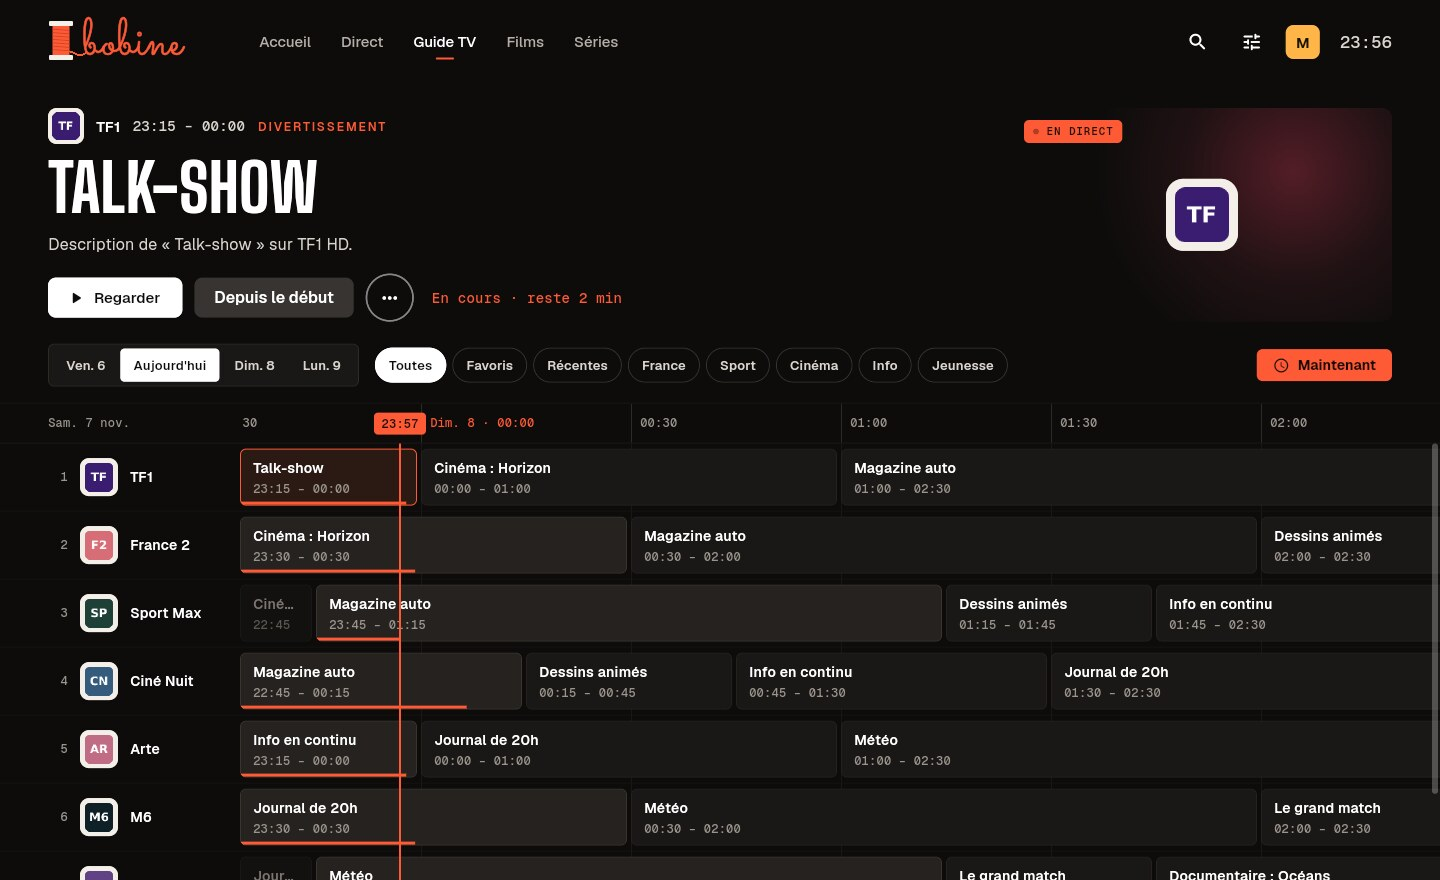
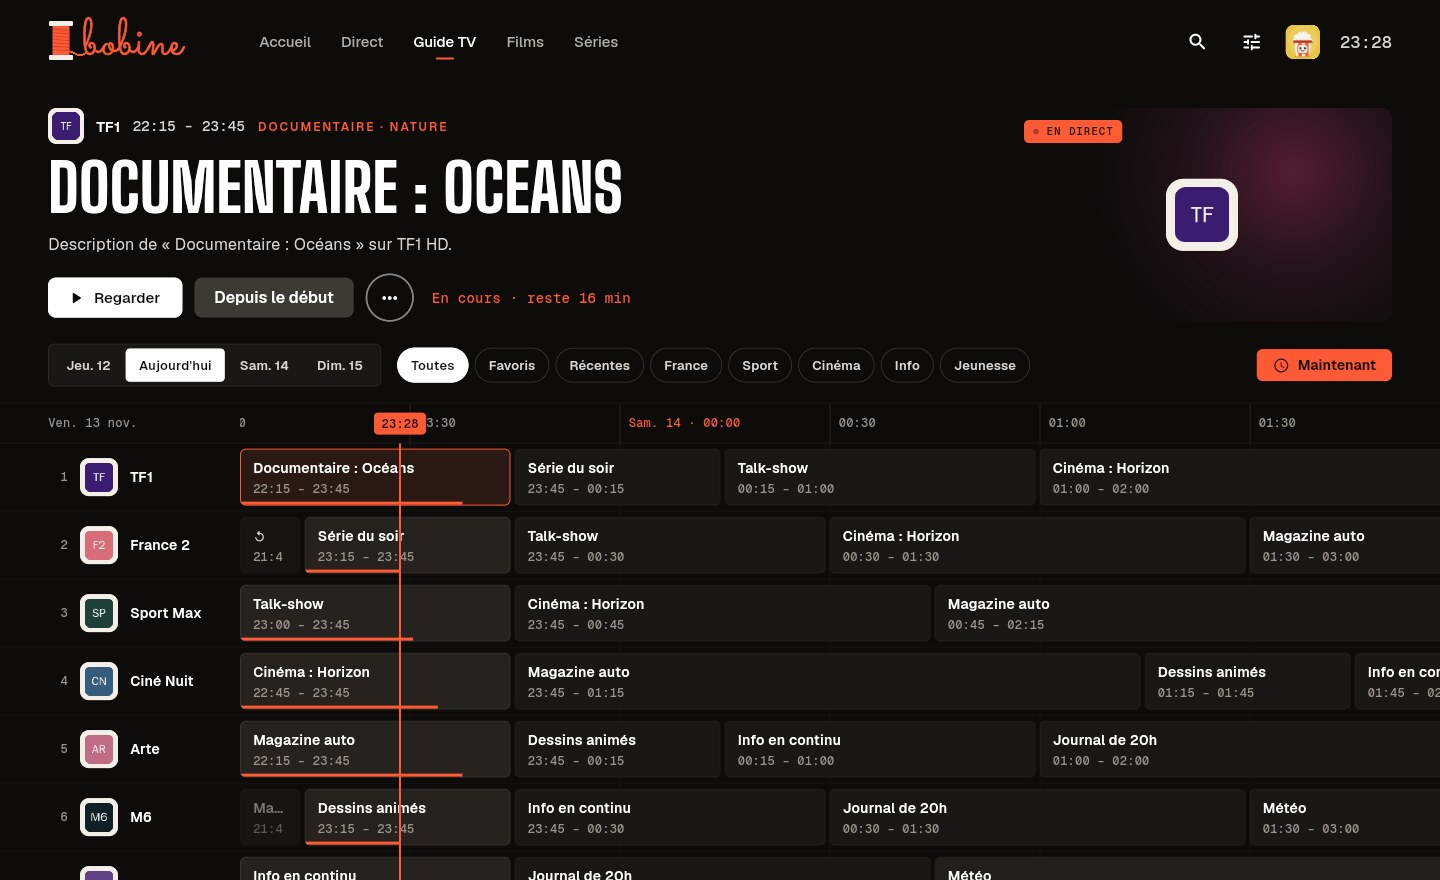
Documentation 1.7.1 : README, captures et signature des mises à jour
- README : « Reprendre » avec l'épisode suivant, recherche (films et
  séries d'abord, 5 programmes puis « Tout voir »), miniature au survol,
  certificats vérifiés par source, section « Nouveautés 1.7 »,
  installation depuis la dernière Release (et avertissement
  SmartScreen), publication signée, dossier des données sous Linux,
  arborescence à jour (features/, lecteur), faux TMDB pour les captures,
  feuille de route.
- Captures refaites en 1.7.1 avec le faux serveur (1440 × 880) ; cinq
  nouvelles : Reprendre, recherche, fiche d'une série, multi-écran,
  thème clair. L'écran de premier lancement illustre « Utilisation ».
- docs/signature-mises-a-jour.md : la signature est en place depuis la
  1.7.0 (clé publique intégrée, .sig publié avec chaque release).
- Deux commentaires parlaient encore de « Continuer à regarder ».

Claude-Session: https://claude.ai/code/session_01HwKVrFk4WPj4UP2jAgbDDs

diff --git a/lib/data/repository.dart b/lib/data/repository.dart
@@ -606,7 +606,7 @@ class Repository {
     );
   }
 
-  /// Items to show in "Continuer à regarder": unfinished movies, plus for each
+  /// Items to show in "Reprendre": unfinished movies, plus for each
   /// series the episode in progress or the one after the last seen to the
   /// end ([ProgressEntry.upNext]). Films and series of a locked category
   /// stay out while the parental code is required. [kind] keeps films

diff --git a/lib/ui/launch.dart b/lib/ui/launch.dart
@@ -114,7 +114,7 @@ class Launch {
     await PlayerScreen.open(context, PlayerSession(item: recordingItem(r)));
   }
 
-  /// Resumes an entry of "Continuer à regarder".
+  /// Resumes an entry of "Reprendre" (an episode up next starts from its beginning).
   static Future<void> resume(BuildContext context, ProgressEntry p) async {
     final s = AppScope.of(context);
     if (p.kind == ContentKind.movie) {

diff --git a/README.md b/README.md
@@ -10,14 +10,20 @@ L'objectif : un lecteur **très optimisé**, qui lit à peu près tous les flux 
 | Direct | Guide TV |
 |---|---|
 | ![Direct](docs/screenshots/tv-direct.jpg) | ![Guide TV](docs/screenshots/guide-tv.jpg) |
+| **Reprendre** (épisode suivant d'une série) | **Recherche** (films et séries d'abord) |
+| ![Reprendre](docs/screenshots/reprendre.jpg) | ![Recherche](docs/screenshots/recherche.jpg) |
 | **Films · Parcourir** | **Tout le catalogue** |
 | ![Films](docs/screenshots/films.jpg) | ![Tout le catalogue](docs/screenshots/catalogue.jpg) |
-| **Lecteur en direct** | **Film en pause** (résumé et distribution) |
-| ![Lecteur en direct](docs/screenshots/lecteur-direct.jpg) | ![Film en pause](docs/screenshots/lecteur-film.jpg) |
-| **Séries** | **Paramètres** |
-| ![Séries](docs/screenshots/series.jpg) | ![Paramètres](docs/screenshots/reglages.jpg) |
+| **Séries** | **Fiche d'une série** (épisodes vus) |
+| ![Séries](docs/screenshots/series.jpg) | ![Fiche d'une série](docs/screenshots/fiche-serie.jpg) |
+| **Fiche d'un film** | **Film en pause** (résumé et distribution) |
+| ![Fiche d'un film](docs/screenshots/fiche-film.jpg) | ![Film en pause](docs/screenshots/lecteur-film.jpg) |
+| **Lecteur en direct** | **Multi-écran** (2 à 4 chaînes) |
+| ![Lecteur en direct](docs/screenshots/lecteur-direct.jpg) | ![Multi-écran](docs/screenshots/multi-ecran.jpg) |
+| **Thème clair** | **Paramètres** |
+| ![Thème clair](docs/screenshots/accueil-clair.jpg) | ![Paramètres](docs/screenshots/reglages.jpg) |
 
-*(Captures réalisées avec le faux serveur de test fourni dans `tool/`, d'où les mires de couleur.)*
+*(Captures de la version 1.7.1, réalisées avec le faux serveur de test fourni dans `tool/` : d'où les mires de couleur et les affiches en dégradé.)*
 
 ---
 
@@ -29,6 +35,7 @@ L'objectif : un lecteur **très optimisé**, qui lit à peu près tous les flux 
 - Plusieurs sources, avec bascule rapide depuis le menu du profil.
 - Bouton « Tester » (Xtream : statut du compte, date d'expiration, nombre de connexions).
 - User-Agent personnalisable avec des préréglages (VLC, Kodi, IPTV Smarters…) pour les fournisseurs qui l'exigent.
+- Certificats https des fournisseurs **vérifiés** ; pour un serveur au certificat expiré ou auto-signé, l'option « Accepter un certificat invalide » se coche source par source (*Options avancées*).
 
 **TV en direct**
 - Navigation par une barre en haut : Accueil, Direct, Guide TV, Films, Séries, plus recherche (Ctrl + K ou /), paramètres, profil et heure.
@@ -45,15 +52,27 @@ L'objectif : un lecteur **très optimisé**, qui lit à peu près tous les flux 
 - « Parcourir » : grande image à la une qui défile, rangées (reprendre, ajouts, Top 10, favoris, catégories, mieux notés) ; un clic lance la lecture, l'affiche survolée propose lecture, favori et fiche.
 - « Tout le catalogue » : affiches, catégories (menu en colonnes ou pastilles), tri (ajouts récents, A–Z, note, année), filtre ; catégorie verrouillée déverrouillable sur place avec le code parental.
 - Fiches détaillées (synopsis, casting, durée, fond) récupérées depuis Xtream.
-- **Reprise de lecture** automatique, « Continuer à regarder » sur l'accueil.
+- **Reprendre**, sur l'accueil et dans les onglets Films et Séries : les films en cours et, pour chaque série, l'épisode en cours ou **l'épisode suivant** dès que le précédent a été vu jusqu'au bout. Quelques secondes d'un épisode (le suivant lancé tout seul puis fermé) ne comptent pas. Clic droit ou croix pour retirer une carte, avec « Annuler ».
 - Saisons et épisodes, épisodes vus, **épisode suivant automatique** avec compte à rebours.
+- **Recherche** dans l'en-tête (Ctrl + K ou /) : films et séries d'abord, puis chaînes et programmes du guide (les 5 premiers, « Tout voir » pour la suite). Un film ou une série ouvre sa fiche.
 
 **Lecteur**
 - En direct : programme en cours en grand, « Ensuite », panneau **Chaînes** pour zapper, **Mini-guide** des quatre prochains programmes, choix de la **qualité** de la chaîne, badge « Différé » et « Revenir au direct ».
-- Films et séries : barre de lecture, **écran de pause** avec résumé et distribution (TMDB), panneau **Épisodes**, carte « Épisode suivant ».
+- Films et séries : barre de lecture avec **miniature de l'instant survolé**, **écran de pause** avec résumé et distribution (TMDB), panneau **Épisodes**, carte « Épisode suivant ».
 - Panneau **Audio et sous-titres** : pistes (langue préférée, `fr` par défaut), taille des sous-titres, vitesse, format d'image (16:9, 4:3, 21:9, remplir, étirer).
 - Statistiques en direct (touche I) : codec, résolution, décodage matériel ou logiciel, cache, débit réseau, images perdues.
 - Désentrelacement automatique pour les chaînes 1080i / 576i.
+
+**Nouveautés 1.7**
+- **Reprendre l'épisode suivant** (1.7.1) : une série dont le dernier épisode regardé a été vu en entier propose le suivant, depuis le début, au lieu de disparaître de « Reprendre ». Après une actualisation Xtream, les épisodes sont redemandés au serveur en arrière-plan pour le trouver. Les onglets Films et Séries ont chacun leur « Reprendre ».
+- **Recherche** (1.7.1) : films et séries en premier, puis chaînes, puis les 5 premiers programmes TV avec « Tout voir ».
+- **Miniature au survol** de la barre de lecture (*Paramètres → Lecture*).
+- **Avatars de profil** (une des 6 images ou une photo) et jusqu'à 10 profils.
+- **Mises à jour vérifiées** : avant de l'installer, Bobine contrôle l'empreinte SHA-256 et la signature Ed25519 de l'installateur téléchargé (voir [docs/signature-mises-a-jour.md](docs/signature-mises-a-jour.md)).
+- **Certificats https vérifiés** pour les sources, avec « Accepter un certificat invalide » par source.
+- **Contrôle parental renforcé** : dans un profil enfant, les pages Compte, Sources, Contrôle parental, Sauvegarde, Enregistrements et Fiches TMDB demandent le code ; les essais sont limités.
+- **Une seule fenêtre** : relancer Bobine ramène celle qui est déjà ouverte.
+- Près d'une centaine de corrections de sécurité et de robustesse (import, synchro, cast, lecteur, enregistrements, journal).
 
 **Nouveautés 1.6 : caster sur la télé**
 - **Caster** ce que tu regardes sur une télé du réseau : bouton *Caster* en haut du lecteur, ou touche **T**. Compatible **Chromecast, Google TV, Android TV** et télés **DLNA** (Samsung, LG, Sony, Philips, Panasonic, Kodi, box…), trouvées toutes seules sur le réseau.
@@ -138,13 +157,15 @@ Autres optimisations :
 
 ### Option rapide : télécharger l'application déjà compilée
 
-Chaque envoi de code est compilé automatiquement sur un Windows de GitHub (tests compris) :
+1. Ouvre la [dernière Release](https://github.com/Weder77/Bobine/releases/latest) et télécharge **`Bobine-Setup-x.y.z.exe`** (installateur, sans droits administrateur) ou **`Bobine-windows-x64.zip`** (version portable à dézipper).
+2. Lance l'installateur, ou dézippe l'archive et lance **`bobine.exe`**.
+3. Les versions suivantes sont proposées dans l'application (*Paramètres → À propos*) et s'installent en un clic.
 
-1. Sur GitHub, ouvre l'onglet **Actions**, puis la dernière exécution **« Build »** réussie (coche verte).
-2. En bas de la page, télécharge l'artefact **`Bobine-Setup`** (installateur, sans droits administrateur) ou **`Bobine-windows-x64`** (version portable à dézipper). Il faut être connecté à GitHub.
-3. Lance **`Bobine-Setup-x.y.z.exe`**, ou dézippe l'archive et lance **`bobine.exe`**.
+> L'installateur n'est pas signé par un certificat Windows : SmartScreen peut afficher « Windows a protégé votre ordinateur ». Clique sur *Informations complémentaires*, puis *Exécuter quand même*.
 
-Pour publier une version, mets à jour `version:` dans `pubspec.yaml` et `kAppVersion` dans `lib/core/version.dart` (un test vérifie qu'ils sont identiques), puis fusionne dans `main` : si cette version n'existe pas encore, le CI crée le tag (`v1.1.0`) et publie l'installateur et l'archive dans les **Releases**. Pousser soi-même un tag `v*` fonctionne aussi. Les applications installées proposent ensuite la mise à jour (*Paramètres → À propos*).
+Chaque envoi de code est aussi compilé sur un Windows de GitHub (tests compris) : pour essayer une version pas encore publiée, ouvre l'onglet **Actions**, la dernière exécution **« Build »** réussie, et télécharge l'artefact **`Bobine-Setup`** ou **`Bobine-windows-x64`** (connexion à GitHub nécessaire).
+
+Pour publier une version, mets à jour `version:` dans `pubspec.yaml` et `kAppVersion` dans `lib/core/version.dart` (un test vérifie qu'ils sont identiques), puis fusionne dans `main` : si cette version n'existe pas encore, le CI crée le tag (`v1.7.1` par exemple), signe l'installateur et publie l'installateur, sa signature (`.sig`) et l'archive dans les **Releases**. Pousser soi-même un tag `v*` fonctionne aussi, s'il correspond à la version de `pubspec.yaml`. La clé de signature est décrite dans [docs/signature-mises-a-jour.md](docs/signature-mises-a-jour.md).
 
 > La vérification des mises à jour interroge l'API publique de GitHub : le dépôt (ou au moins ses Releases) doit être public.
 
@@ -197,6 +218,8 @@ L'application se trouve dans `build\windows\x64\runner\Release\`. Copie **tout l
 2. Les chaînes, films et séries sont importés en arrière-plan, suivis du guide TV. La progression s'affiche en bas de la fenêtre.
 3. Les sources sont actualisées automatiquement (contenu toutes les 24 h, guide toutes les 12 h, réglable).
 
+![Premier lancement](docs/screenshots/bienvenue.jpg)
+
 ### Raccourcis du lecteur
 
 | Touche | Action |
@@ -228,6 +251,7 @@ Hors du lecteur, les **flèches** déplacent le focus (cartes, menus, boutons), 
 ### En cas de problème
 
 - **Une chaîne ne se lance pas** : dans *Paramètres → Sources → Modifier → Options avancées*, essaie le format **HLS** au lieu de MPEG-TS, ou un **User-Agent** (VLC).
+- **Certificat refusé** sur une source https : si le serveur du fournisseur a un certificat expiré ou auto-signé, coche *Paramètres → Sources → Modifier → Options avancées → Accepter un certificat invalide*.
 - **Image corrompue ou verte** : passe le **décodage vidéo** sur « Logiciel » (*Paramètres → Lecture*).
 - **Effet de peigne** sur certaines chaînes : désentrelacement sur « Toujours ».
 - **Petit SSD ou peu de RAM** : réduis la taille du cache (*Paramètres → Cache*).
@@ -242,7 +266,7 @@ Hors du lecteur, les **flèches** déplacent le focus (cartes, menus, boutons), 
 ## Données et vie privée
 
 Tout est stocké **localement** dans une base SQLite (`bobine.db`) : sources, profils, favoris, progression, rappels et réglages. Un journal (`bobine.log`, identifiants masqués) se trouve à côté.
-Sous Windows elle se trouve dans `%APPDATA%\com.bobine\Bobine\`. Aucune donnée n'est envoyée ailleurs que vers ton fournisseur IPTV, sauf ce que tu actives : les titres des films et séries ouverts vers TMDB si tu as saisi une clé, la vérification des mises à jour vers GitHub (désactivable) et, si tu crées un compte, la synchronisation.
+Sous Windows elle se trouve dans `%APPDATA%\com.bobine\Bobine\`, sous Linux dans `~/.local/share/com.bobine.bobine/`. Aucune donnée n'est envoyée ailleurs que vers ton fournisseur IPTV, sauf ce que tu actives : les titres des films et séries ouverts vers TMDB si tu as saisi une clé, la vérification des mises à jour vers GitHub (désactivable) et, si tu crées un compte, la synchronisation.
 
 **Compte et synchronisation** (facultatifs) : le compte est hébergé sur Supabase (région Europe). Ton mot de passe ne quitte jamais l'ordinateur : Bobine en tire, avec PBKDF2 (600 000 itérations), une clé de connexion envoyée au serveur et une clé de chiffrement qui reste sur l'appareil. Chaque élément est chiffré en AES-256-GCM et rangé sous un identifiant opaque (HMAC) : le serveur ne connaît que ton adresse e-mail, le nombre d'éléments et leurs dates de modification. Sans le mot de passe, personne ne peut lire ces données ; en cas d'oubli, « Mot de passe oublié » en définit un nouveau et le compte repart des données de l'ordinateur. *Paramètres → Compte → Supprimer le compte* efface tout sur le serveur.
 
@@ -259,14 +283,22 @@ Bobine est un lecteur : il ne fournit aucun contenu.
 ```
 lib/
 ├── main.dart, app.dart, services.dart   Démarrage, thème, conteneur de services
-├── core/            Texte (accents, hash), réseau (HTTP, gzip), formats, thème
+├── core/            Texte (accents, noms, encodages), réseau (HTTP, gzip, certificats), secrets, journal, fenêtre, version
 ├── data/
 │   ├── db.dart              Schéma SQLite et migrations
 │   ├── models.dart          Source, Channel, Movie, Series, Episode, Program…
-│   ├── repository.dart      Requêtes (favoris, progression, recherche, EPG)
+│   ├── repository.dart      Requêtes (favoris, progression et « Reprendre », recherche, EPG)
+│   ├── search_worker.dart   Recherche globale sur un isolate
 │   ├── settings.dart        Préférences utilisateur
 │   ├── epg_cache.dart       Association chaîne ↔ guide, « en cours » mémorisé
 │   └── import/              M3U, Xtream, XMLTV : analyse en flux + import en isolate
+├── features/
+│   ├── tmdb.dart            Fiches enrichies (TMDB) et leur cache
+│   ├── updater.dart         Mises à jour : release GitHub, empreinte et signature vérifiées
+│   ├── backup.dart          Sauvegarde et restauration dans un fichier
+│   ├── parental.dart        Code parental (essais limités)
+│   ├── recording_service.dart, reminder_service.dart   Enregistrements et rappels
+│   └── profile_photo.dart   Photo de profil recadrée et réduite
 ├── sync/
 │   ├── sync_engine.dart     Journal des changements → envoi, réception, « le plus récent gagne »
 │   ├── sync_crypto.dart     Clés tirées du mot de passe, chiffrement AES-GCM
@@ -276,7 +308,10 @@ lib/
 │   ├── player_service.dart  Instance libmpv unique + stratégie de cache
 │   ├── player_screen.dart   Lecteur plein écran (commandes, raccourcis, zapping)
 │   ├── player_chrome.dart   Barres, panneaux (chaînes, mini-guide, pistes, épisodes), écran de pause
-│   ├── player_widgets.dart  Noms des pistes audio et sous-titres
+│   ├── playback_tracker.dart Position mémorisée pour « Reprendre », ici ou sur la télé
+│   ├── seek_preview.dart    Miniature de l'instant survolé sur la barre de lecture
+│   ├── mini_player.dart, pip.dart   Mini-lecteur et fenêtre flottante
+│   ├── reconnect.dart       Reconnexion d'un direct qui coupe
 │   ├── multi_view.dart      Multi-écran : dispositions, petits lecteurs des cases, chaîne entendue
 │   └── cast_view.dart       Caster : panneau des appareils, écran « En diffusion sur… », mini-lecteur
 ├── cast/
@@ -285,10 +320,11 @@ lib/
 │   ├── dlna.dart            Télés DLNA / UPnP (SOAP : AVTransport, RenderingControl)
 │   ├── relay.dart           Relais HTTP local : User-Agent, HLS réécrit, plages d'octets, fichiers locaux
 │   └── cast_service.dart    Session en cours, position, commandes, reprise sur l'ordinateur
-└── ui/              Accueil, Direct + guide, Films/Séries, fiches, recherche, paramètres
-test/                Tests (analyseurs, import complet avec faux serveur, lecteur, images, synchro)
+└── ui/              Accueil, Direct + guide, Films/Séries, fiches, recherche, profils, paramètres
+test/                Tests (analyseurs, import complet avec faux serveur, « Reprendre », lecteur, images, synchro)
 tool/                Faux serveur Xtream, générateur de vidéos de test, dessin de l'icône et des avatars
 supabase/migrations/ Table de synchro, règles d'accès et fonctions du serveur
+docs/                Captures d'écran, signature des mises à jour
 ```
 
 ### Synchronisation : comment ça marche
@@ -303,6 +339,8 @@ python3 tool/fake_xtream.py test_media 8765
 ```
 
 Puis dans Bobine, ajoute une source Xtream avec le serveur `http://127.0.0.1:8765` (identifiant et mot de passe quelconques).
+
+Le faux serveur imite aussi TMDB : lance une version de développement avec `BOBINE_TMDB_BASE=http://127.0.0.1:8765/tmdb/3` et `BOBINE_TMDB_IMG=http://127.0.0.1:8765/tmdb/img`, puis saisis la clé `testkey` dans *Paramètres → Fiches TMDB*. C'est ainsi que sont faites les captures de ce README (fenêtre de 1440 × 880).
 
 ### Tests
 
@@ -319,6 +357,7 @@ flutter test
 - [x] Replay / catch-up, rappels, enregistrements, mini-lecteur, profils, contrôle parental, TMDB, sauvegarde, manette, installateur (1.1).
 - [x] Multi-écran (2 à 4 chaînes) (1.5).
 - [x] Caster sur la télé : Chromecast, Google TV, télés DLNA (1.6).
+- [x] Avatars de profil, miniature au survol, mises à jour signées, épisode suivant dans « Reprendre » (1.7).
 - [ ] AirPlay (Apple TV).
 - [ ] Portail Stalker (MAC).
 - [ ] Version Android TV / mobile (même code Flutter + media_kit).

diff --git a/docs/signature-mises-a-jour.md b/docs/signature-mises-a-jour.md
@@ -2,8 +2,14 @@
 
 Bobine installe ses mises à jour en silence. Pour qu'un installateur déposé
 sur une release sans la clé (fichier remplacé, release faite à la main) ne
-puisse pas être installé, l'installateur peut être signé avec une clé Ed25519
+puisse pas être installé, l'installateur est signé avec une clé Ed25519
 dont la moitié publique est intégrée à l'application.
+
+**État : en place depuis la 1.7.0.** La clé publique est dans
+`kUpdatePublicKey` (`lib/core/version.dart`), le secret
+`BOBINE_UPDATE_SIGNING_KEY` est dans l'environnement `PRD`, et chaque release
+publie `Bobine-Setup-x.y.z.exe.sig` à côté de l'installateur (1.7.0, 1.7.1).
+Une version 1.7 ou plus récente refuse un installateur sans signature valide.
 
 Limite : la signature est faite par le build GitHub. Elle ne protège pas d'un
 build lui-même compromis (workflow modifié par un accès volé, étape tierce
@@ -12,11 +18,11 @@ faut signer hors de GitHub, sur ton ordinateur, l'installateur téléchargé
 depuis l'artefact du build (mêmes commandes que dans le workflow), puis
 déposer le `.sig` sur la release.
 
-Tant que la clé n'est pas configurée, l'application vérifie seulement que
-l'installateur vient des releases du dépôt sur github.com, en https, avec
+Une version sans clé publique (`kUpdatePublicKey` vide) vérifie seulement
+que l'installateur vient des releases du dépôt sur github.com, en https, avec
 l'empreinte SHA-256 donnée par GitHub.
 
-## Mise en place (une seule fois)
+## Mise en place (déjà faite, gardée pour référence)
 
 1. Créer la paire de clés, sur ton ordinateur, hors du dépôt :
 
